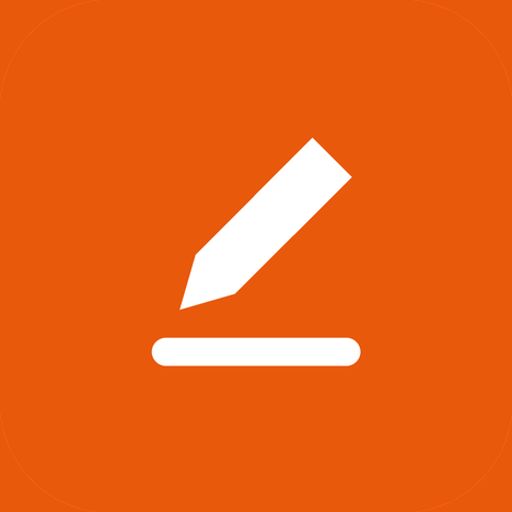
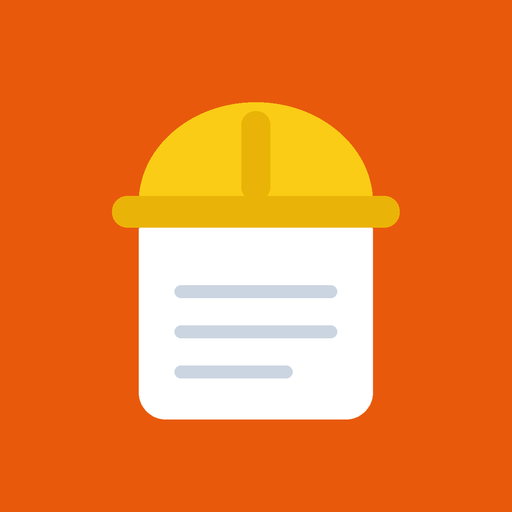
아이콘: 안전모 + 노트 그림으로 변경
Claude-Session: https://claude.ai/code/session_01NpgRkZX6GkrsT3cbKP3UHH

Changed region(s): [[0.2188, 0.1875, 0.7812, 0.8438]]

diff --git a/src/main.js b/src/main.js
@@ -6,7 +6,7 @@ import { Share } from '@capacitor/share';
 import { FileOpener } from '@capacitor-community/file-opener';
 
 const NATIVE = Capacitor.isNativePlatform();
-const VERSION = '1.1.1';
+const VERSION = '1.1.2';
 const PRIVACY_URL = 'https://hwanggoo.github.io/gisa-note/privacy.html';
 
 /* ============ small helpers ============ */
